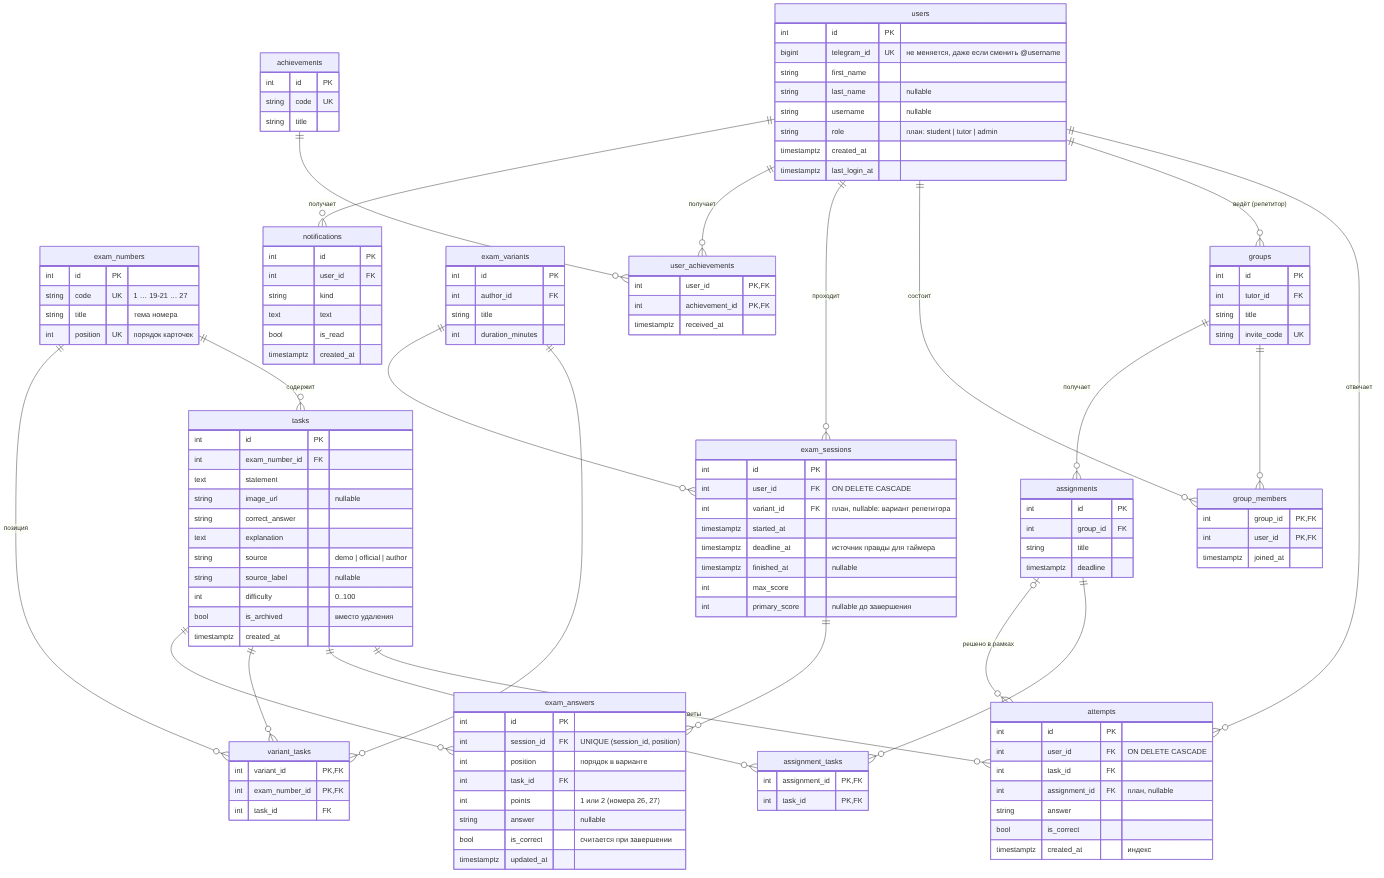
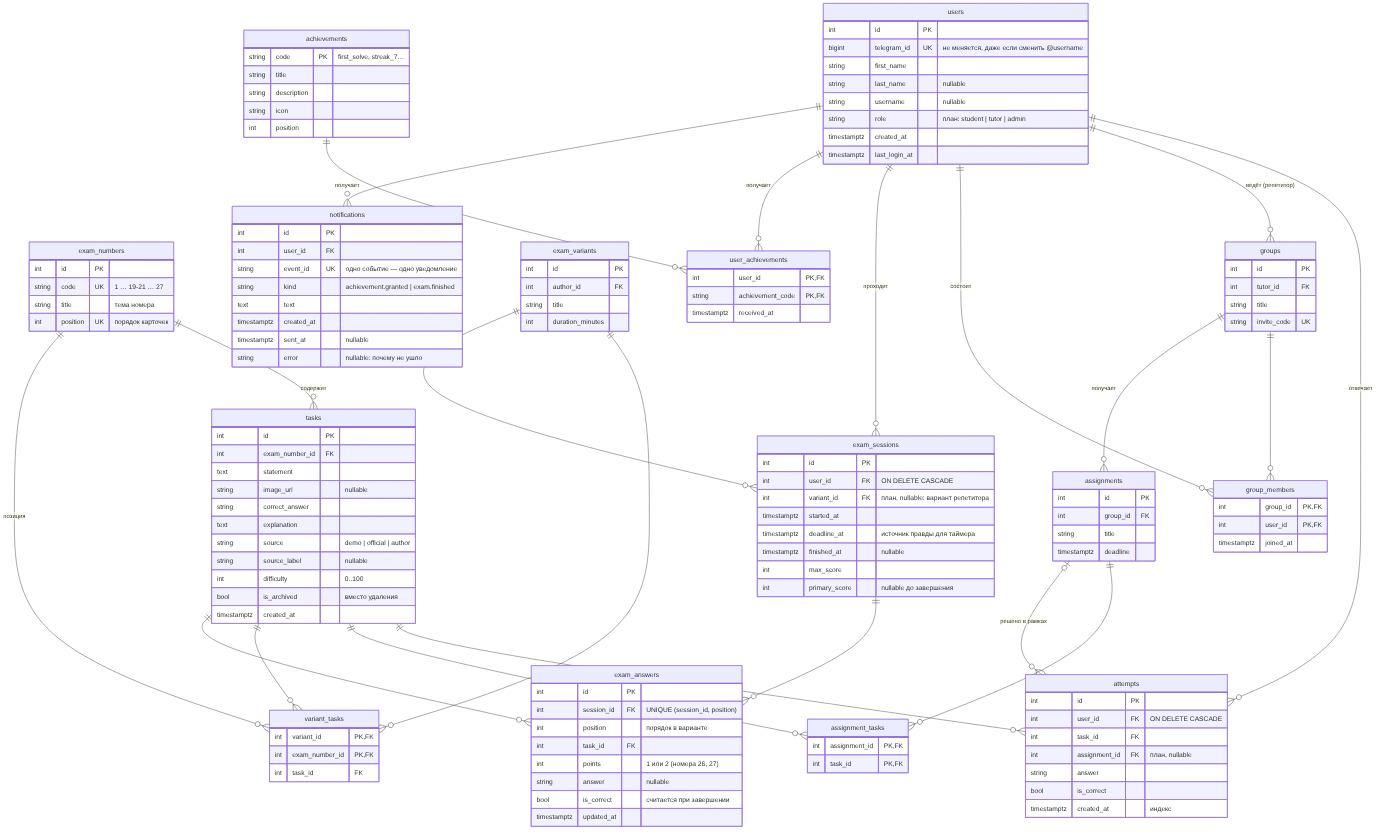
мелкие фиксы

diff --git a/architecture/overview.md b/architecture/overview.md
@@ -14,7 +14,10 @@ flowchart LR
     subgraph BE[backend — модульный монолит]
         API[FastAPI :8000<br/>модули auth · tasks · progress]
         BOT[Telegram-бот<br/>aiogram, long polling]
+        W[Воркер<br/>достижения, уведомления]
     end
+
+    MQ[[RabbitMQ<br/>geek.events]]
 
     DB[(PostgreSQL<br/>users, exam_numbers,<br/>tasks, attempts)]
     R[(Redis<br/>ключи входа, коды,<br/>счётчики попыток)]
@@ -26,6 +29,10 @@ flowchart LR
     TG <--> BOT
     BOT --> DB
     BOT --> R
+    API -- "события" --> MQ
+    MQ --> W
+    W --> DB
+    W -- "сообщения" --> TG
 ```
 
 - **Модульный монолит.** Один backend, внутри — модули со своими таблицами и логикой:
@@ -34,7 +41,8 @@ flowchart LR
 - **Слои внутри модуля:** `router` (HTTP, коды ответов) → `service` (логика) → `models` (таблицы).
   Схемы Pydantic в `schemas` — контракт API.
 - **Бот** — отдельный процесс из того же кода: использует те же функции `auth.service`, что и API.
-- **Запуск:** `docker compose up` поднимает `db`, `redis`, `api`, `bot`. `api` при старте применяет миграции и заполняет справочник номеров.
+- **Фоновая работа:** API публикует события в RabbitMQ (`task.answered`, `exam.finished`), воркер выдаёт достижения и отправляет уведомления в Telegram. Сбой Telegram не тормозит сайт: сообщение повторится через 5 секунд (до 3 раз), затем попадёт в очередь `geek.dead`.
+- **Запуск:** `docker compose up` поднимает `db`, `redis`, `rabbitmq`, `api`, `bot`, `worker`. `api` при старте применяет миграции и заполняет справочник номеров.
 
 ## Вход по QR-коду
 
@@ -83,4 +91,33 @@ sequenceDiagram
     A->>D: INSERT attempts (если вошёл)
     A-->>S: is_correct, правильный ответ, разбор
     S-->>U: «Верно!», метка «✓ Решена», «решено 1 из 1»
+```
+
+## Достижение и уведомление через брокер
+
+```mermaid
+sequenceDiagram
+    autonumber
+    actor U as Ученик
+    participant A as API
+    participant Q as RabbitMQ
+    participant W as Воркер
+    participant D as PostgreSQL
+    participant T as Telegram
+
+    U->>A: POST /tasks/8/check
+    A->>D: INSERT attempts
+    A->>Q: task.answered
+    A-->>U: «Верно!» (не ждёт остального)
+    Q->>W: очередь achievements
+    W->>D: пересчитать показатели, INSERT user_achievements ON CONFLICT DO NOTHING
+    W->>Q: achievement.granted
+    Q->>W: очередь notifications
+    W->>D: есть уведомление с этим event_id? — нет
+    W->>T: sendMessage «🎯 Новое достижение»
+    alt Telegram недоступен
+        W->>Q: в notifications.retry (повтор через 5 с, до 3 раз)
+        Q-->>Q: после 3 неудач — в geek.dead
+    end
+    W->>D: INSERT notifications (sent_at)
 ```

diff --git a/plan/roadmap.md b/plan/roadmap.md
@@ -18,14 +18,14 @@ gantt
     Вход через Telegram, Redis           :done, a5, 2026-10-22, 1d
     Прогресс и статистика                :done, a6, 2026-10-22, 1d
     Пробник, слабые темы, рейтинг        :done, a7, 2026-10-22, 1d
+    Тестовые баллы, роли, редактор       :done, a8, 2026-10-22, 1d
+    RabbitMQ, достижения, уведомления    :done, a9, 2026-10-22, 1d
     Чекпоинт 2                           :milestone, m2, 2026-10-22, 0d
 
     section После чекпоинта 2
-    Роли и закрытие управления банком    :b1, 2026-10-23, 7d
+    Карточка 19–21 → три задания         :b1, 2026-10-23, 5d
     Наполнение банка задачами            :b2, 2026-10-23, 21d
-    RabbitMQ и события                   :b4, 2026-11-06, 10d
-    Достижения                           :b5, 2026-11-16, 10d
-    Уведомления в Telegram               :b6, 2026-11-27, 7d
+    Напоминание «серия под угрозой»      :b6, 2026-11-13, 7d
     Nginx, финальный docker compose      :b7, 2026-11-27, 7d
     Подготовка к защите                  :b8, 2026-12-04, 7d
 ```
@@ -45,7 +45,8 @@ gantt
 | Мотивация | «Что повторить» в профиле, рейтинг за неделю и всё время (Redis) | Я, К |
 | Сайт | Страницы «Задания», «Номер», «Вход», «Профиль», «Пробник», «Результат», «Рейтинг»; адаптив под телефон | К |
 | Инфраструктура | `docker compose up`: db, redis, api, bot | Я |
-| Качество | 76 автотестов (pytest), включая негативные сценарии | Я |
+| Брокер | RabbitMQ, воркер, достижения, уведомления в Telegram; повторы, «мёртвые письма» | Я |
+| Качество | 104 автотеста (pytest), включая негативные сценарии | Я |
 
 ### Отклонения от плана — честно
 
@@ -59,8 +60,6 @@ gantt
 | # | Этап | Что войдёт | Кто | Готово, когда… |
 |---|---|---|---|---|
 | 2 | Наполнение | ≥ 5 задач на каждый номер | К, Я | На каждой карточке ≥ 5 задач |
-| 4 | Брокер | RabbitMQ, события «задача решена» и «пробник завершён», воркер | Я | API отвечает, даже если Telegram недоступен |
-| 5 | Достижения | Таблицы достижений, выдача воркером, блок в профиле | Я, К | Достижение выдаётся один раз |
 | 6 | Уведомления | Бот пишет о новом задании и дедлайне | Я | Уведомление приходит один раз, без дублей |
 | 7 | Выкладка | Nginx перед frontend и API, единый compose | Я | Всё открывается на одном адресе |
 | 8 | Защита | Презентация, демо-сценарий, ответы на вопросы | К — ведёт, Я — демо | Прогон без ошибок |

diff --git a/plan/demo.md b/plan/demo.md
@@ -28,7 +28,9 @@
 | 7 | «Профиль» | Решено, точность, серия, график за 14 дней, «Что повторить» → «Потренировать» |
 | 8 | «Рейтинг» | Очко за задачу, решённую впервые; неделя и всё время; хранится в Redis |
 | 9 | `/docs` (Swagger) | Контракты API генерируются из кода |
-| 10 | GitHub: backend → `tests/`; `pytest` | 76 автотестов, включая негативные сценарии |
+| 10 | Решить задачу → через секунду в Telegram «🎯 Новое достижение»; профиль → «Достижения» | Событие ушло в RabbitMQ, воркер выдал достижение и отправил сообщение; сайт его не ждал |
+| 11 | <http://localhost:15672> → Queues | Очереди achievements, notifications, их .retry и geek.dead — вживую |
+| 12 | GitHub: backend → `tests/`; `pytest` | 104 автотеста, включая негативные сценарии |
 
 ## 3. Вопросы, которые скорее всего зададут
 
@@ -53,6 +55,9 @@
 | Вопрос | Ответ |
 |---|---|
 | Почему Python, а не ASP.NET? | FastAPI так же генерирует Swagger из кода; Pydantic — строгие контракты; SQLAlchemy — модели-классы. Согласовано с преподавателем |
+| Зачем брокер (RabbitMQ)? | Отправка в Telegram медленная и ненадёжная. API публикует событие и сразу отвечает; воркер обработает в фоне. Telegram недоступен — повтор через 5 с, до 3 раз, затем `geek.dead`. Новый обработчик (email) подключается новой очередью без правок API |
+| Сообщение доставят дважды? | Достижения: `ON CONFLICT DO NOTHING` + пересчёт по базе. Уведомления: уникальный `event_id`. Дублей не будет |
+| Брокер упал? | Сайт работает: публикация не роняет запрос. Пропущенное событие исправит следующее — достижения считаются из базы |
 | Зачем Redis? | Данные с временем жизни (коды входа, идущий пробник) и рейтинг: sorted set сразу отдаёт топ и место без пересчёта по таблице |
 | Почему «решено» не хранится в таблице? | Вычисляется из попыток — нет дублирования, нечему рассинхронизироваться |
 | Как добавить предмет? | Модель номеров не привязана к информатике: новый предмет — новый набор номеров. Следующий шаг — таблица предметов |

diff --git a/requirements/business-requirements.md b/requirements/business-requirements.md
@@ -122,8 +122,9 @@
 | ID | Требование | Приор. | Статус |
 |---|---|---|---|
 | BR-28 | Рейтинг за неделю и за всё время (Redis sorted set); очко — за задачу, решённую впервые | C | ✅ |
-| BR-29 | Достижения: первый пробник, 7 дней подряд, 100 задач | C | ⏳ |
-| BR-30 | Уведомления в Telegram: новое задание, дедлайн завтра | C | ⏳ |
+| BR-29 | Достижения (8 шт.): первая задача, 10 и 50 задач, 3 и 7 дней подряд, первый пробник, 70+ баллов, номер закрыт | C | ✅ |
+| BR-30 | Уведомления в Telegram: новое достижение, итог пробника; через брокер — без дублей, с повторами | C | ✅ |
+| BR-31 | Напоминание «серия под угрозой» вечером, если сегодня не занимался | C | ⏳ |
 
 ## 6. Нефункциональные требования
 
@@ -134,7 +135,8 @@
 | NFR-03 | Ученик видит только свою статистику | ✅ |
 | NFR-04 | Контракты API описаны в OpenAPI, Swagger на `/docs` | ✅ |
 | NFR-05 | Схема БД меняется только миграциями Alembic | ✅ |
-| NFR-06 | Логика покрыта автотестами (pytest), включая негативные сценарии | ✅ 86 тестов |
+| NFR-06 | Логика покрыта автотестами (pytest), включая негативные сценарии | ✅ 104 теста |
+| NFR-09 | Сбой Telegram или брокера не ломает работу сайта; уведомления не теряются и не дублируются | ✅ |
 | NFR-07 | Сайт удобен на телефоне (ширина от 360 px) | ✅ |
 | NFR-08 | «День» в статистике — по московскому времени | ✅ |
 
@@ -146,7 +148,8 @@
 | ORM, миграции | SQLAlchemy 2, Alembic | Модели-классы (ООП), версионирование схемы |
 | БД | PostgreSQL 16 | Транзакции, внешние ключи, агрегаты для статистики |
 | Временные данные | Redis 7 | Одноразовые ключи входа с TTL, счётчик попыток, идущий пробник с TTL и защита от двойного старта, рейтинг (sorted set) |
-| Бот | aiogram 3 | Вход без пароля; дальше — уведомления |
+| Бот | aiogram 3 | Вход без пароля |
+| Брокер сообщений | RabbitMQ 3.13, pika | Достижения и уведомления — в фоне: сайт не ждёт Telegram; повторы, «мёртвые письма», веб-панель |
 | Frontend | React 18 + Vite | Требование лабораторной |
 | Запуск | Docker Compose | NFR-01 |
 

diff --git a/architecture/erd.md b/architecture/erd.md
@@ -17,11 +17,11 @@
 | Ответ в пробнике | `exam_answers` | Позиция варианта: задача, баллы за неё, ответ ученика | ✅ |
 | Вариант репетитора | `exam_variants` | Сохранённый вариант, собранный репетитором | план |
 | Задача варианта | `variant_tasks` | Связь вариант ↔ задача | план (служебная) |
-| Достижение | `achievements` | «7 дней подряд», «100 задач» | план |
-| Полученное достижение | `user_achievements` | Связь ученик ↔ достижение | план (служебная) |
-| Уведомление | `notifications` | Сообщение пользователю (и в Telegram) | план |
+| Достижение | `achievements` | Справочник: «Первый шаг», «Неделя без пропусков»… | ✅ |
+| Полученное достижение | `user_achievements` | Связь ученик ↔ достижение, дата | ✅ (служебная) |
+| Уведомление | `notifications` | Сообщение ученику и статус отправки в Telegram | ✅ |
 
-Итого 15 таблиц (6 уже в базе), из них **11 — объекты реального мира** (требование лабы: ≥ 10 таблиц, ≥ 7 реальных объектов).
+Итого 15 таблиц (9 уже в базе), из них **11 — объекты реального мира** (требование лабы: ≥ 10 таблиц, ≥ 7 реальных объектов).
 
 ## Схема
 
@@ -144,22 +144,26 @@ erDiagram
         timestamptz updated_at
     }
     achievements {
-        int id PK
-        string code UK
+        string code PK "first_solve, streak_7…"
         string title
+        string description
+        string icon
+        int position
     }
     user_achievements {
         int user_id PK, FK
-        int achievement_id PK, FK
+        string achievement_code PK, FK
         timestamptz received_at
     }
     notifications {
         int id PK
         int user_id FK
-        string kind
+        string event_id UK "одно событие — одно уведомление"
+        string kind "achievement.granted | exam.finished"
         text text
-        bool is_read
         timestamptz created_at
+        timestamptz sent_at "nullable"
+        string error "nullable: почему не ушло"
     }
 ```
 

diff --git a/plan/backlog.md b/plan/backlog.md
@@ -25,6 +25,10 @@
 | D-16 | Перевод в тестовые баллы по шкале 2026 | Я, К |
 | D-17 | Роли: `users.role`, 403 для не-админов, `make_admin` | Я |
 | D-18 | Страница-редактор задач | К |
+| D-19 | RabbitMQ: события, воркер, повторы с паузой, «мёртвые письма» | Я |
+| D-20 | Достижения (8) и блок в профиле | Я, К |
+| D-21 | Уведомления в Telegram без дублей | Я |
+| D-22 | Автотесты (104) | Я |
 
 ## To do / Backlog
 
@@ -34,9 +38,7 @@
 | B-05 | Наполнить банк: ≥ 5 задач на номер | К, Я | Наполнение |
 | B-06 | Загрузка картинок к задачам | Я | Наполнение |
 | B-07 | Разбить карточку 19–21 на три поля ответа (полный вариант = 29 баллов) | Я, К | Пробник |
-| B-09 | RabbitMQ: события «задача решена», «пробник завершён» | Я | Брокер |
-| B-15 | Достижения | Я, К | Мотивация |
-| B-16 | Уведомления в Telegram через очередь RabbitMQ (без дублей, с повторами) | Я | Уведомления |
+| B-16 | Напоминание «серия под угрозой» (планировщик → очередь) | Я | Уведомления |
 | B-17 | Nginx и единый compose для frontend + backend | Я | Выкладка |
 | B-18 | Тесты на frontend (хотя бы ключевые страницы) | К | Качество |
 | B-19 | Презентация к защите | К | Защита |

diff --git a/api/README.md b/api/README.md
@@ -54,6 +54,23 @@
 |---|---|---|---|---|
 | GET | `/rating?period=week` или `all` | ◐ | Топ-20; вошедшему — его место в поле `me` | 200, 422 |
 
+## Достижения и уведомления
+
+| Метод | Адрес | | Что делает | Ответы |
+|---|---|---|---|---|
+| GET | `/me/achievements` | 🔒 | Все 8 достижений: `received_at` — дата получения или `null` | 200 |
+| GET | `/me/notifications` | 🔒 | Последние уведомления: текст, `sent_at` или `error` | 200 |
+
+Достижения выдаёт не API, а фоновый воркер по событиям из RabbitMQ:
+
+| Событие | Кто публикует | Поля | Очереди |
+|---|---|---|---|
+| `task.answered` | `POST /tasks/{id}/check` (вошедший) | `user_id, task_id, is_correct, first_solve` | achievements |
+| `exam.finished` | `POST /exam/{id}/finish` | `user_id, session_id, primary_score, max_score, test_score` | achievements, notifications |
+| `achievement.granted` | воркер | `user_id, code, icon, title, description` | notifications |
+
+В каждом событии ещё `event, event_id, at`. Ошибка обработки → `<очередь>.retry` (5 с) → до 3 повторов → `geek.dead`.
+
 ## Примеры
 
 `POST /tasks/8/check`
